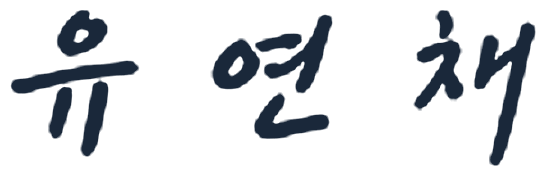
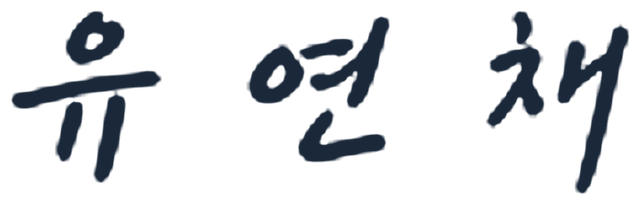
대표이사 서명: 표시 크기 5% 축소(sign-img height 3.3em→3.14em) + 획 두께 5% 얇게(6배 확대 후 침식 재생성), ceo-sign.png?v=3·style.css ?v=20260731-14·translations.js ?v=20260731-12

diff --git a/company.html b/company.html
@@ -7,7 +7,7 @@
   <meta name="description" content="한국탄산화학㈜ 회사소개 — CEO 인사말, 연혁, 꾸준한 성장.">
   <link rel="stylesheet" href="assets/css/reset.css">
   <link rel="stylesheet" href="assets/css/variables.css">
-  <link rel="stylesheet" href="assets/css/style.css?v=20260731-13">
+  <link rel="stylesheet" href="assets/css/style.css?v=20260731-14">
   <!-- 대표이사 서명용 손글씨 폰트 (한글: Nanum Pen Script, 일어: Yomogi) -->
   <link rel="preconnect" href="https://fonts.googleapis.com">
   <link rel="preconnect" href="https://fonts.gstatic.com" crossorigin>
@@ -135,7 +135,7 @@
           <p class="greeting__p" data-i18n-html="company.greeting.p2">고순도 제조 역량과 안정적인 공급망, 신속한 전문 서비스를 바탕으로<br>식음료·제약·산업 전반의 신뢰받는 파트너가 되겠습니다.</p>
           <p class="greeting__p" data-i18n-html="company.greeting.p3">앞으로도 안전(Safety), 품질(Quality), 신뢰(Trust)를 핵심 가치로 삼아<br>지속적인 기술혁신과 품질 향상을 실현하고, 고객의 성장과 산업 발전에<br>기여하는 기업이 되겠습니다.</p>
           <p class="greeting__p" data-i18n-html="company.greeting.p4">변함없는 관심과 성원에 깊이 감사드리며,<br>앞으로도 고객과 함께 더 큰 미래를 만들어 나가겠습니다.</p>
-          <p class="greeting__sign" data-i18n-html="company.greeting.sign">한국탄산화학㈜ 대표이사 <img class="sign-img" src="assets/images/site/ceo-sign.png?v=2" alt="유연채"></p>
+          <p class="greeting__sign" data-i18n-html="company.greeting.sign">한국탄산화학㈜ 대표이사 <img class="sign-img" src="assets/images/site/ceo-sign.png?v=3" alt="유연채"></p>
         </div>
        </div>
       </div>
@@ -256,7 +256,7 @@
     <span class="scroll-fab__text">SCROLL</span>
   </a>
 
-  <script src="assets/i18n/translations.js?v=20260731-11"></script>
+  <script src="assets/i18n/translations.js?v=20260731-12"></script>
   <script src="assets/js/i18n.js"></script>
   <script src="assets/js/main.js"></script>
 </body>

diff --git a/assets/i18n/translations.js b/assets/i18n/translations.js
@@ -218,7 +218,7 @@ window.I18N = {
     "company.greeting.p2": "고순도 제조 역량과 안정적인 공급망, 신속한 전문 서비스를 바탕으로<br>식음료·제약·산업 전반의 신뢰받는 파트너가 되겠습니다.",
     "company.greeting.p3": "앞으로도 안전(Safety), 품질(Quality), 신뢰(Trust)를 핵심 가치로 삼아<br>지속적인 기술혁신과 품질 향상을 실현하고, 고객의 성장과 산업 발전에<br>기여하는 기업이 되겠습니다.",
     "company.greeting.p4": "변함없는 관심과 성원에 깊이 감사드리며,<br>앞으로도 고객과 함께 더 큰 미래를 만들어 나가겠습니다.",
-    "company.greeting.sign": "한국탄산화학㈜ 대표이사 <img class=\"sign-img\" src=\"assets/images/site/ceo-sign.png?v=2\" alt=\"유연채\">",
+    "company.greeting.sign": "한국탄산화학㈜ 대표이사 <img class=\"sign-img\" src=\"assets/images/site/ceo-sign.png?v=3\" alt=\"유연채\">",
     "company.greeting.quote": "최고의 품질과 안전으로 고객의 가치를 높이는 한국탄산화학㈜가 되겠습니다.",
     "company.val.safety": "안전경영",
     "company.val.quality": "품질경영",

diff --git a/company-overview.html b/company-overview.html
@@ -7,7 +7,7 @@
   <meta name="description" content="한국탄산화학㈜ 회사 개요와 조직도 — 상호·설립·사업분야·생산제품 및 조직 구성.">
   <link rel="stylesheet" href="assets/css/reset.css">
   <link rel="stylesheet" href="assets/css/variables.css">
-  <link rel="stylesheet" href="assets/css/style.css?v=20260731-13">
+  <link rel="stylesheet" href="assets/css/style.css?v=20260731-14">
   <!-- 대표이사 서명용 손글씨 폰트 (한글: Nanum Pen Script, 일어: Yomogi) -->
   <link rel="preconnect" href="https://fonts.googleapis.com">
   <link rel="preconnect" href="https://fonts.gstatic.com" crossorigin>
@@ -230,7 +230,7 @@
     <span class="scroll-fab__text">SCROLL</span>
   </a>
 
-  <script src="assets/i18n/translations.js?v=20260731-11"></script>
+  <script src="assets/i18n/translations.js?v=20260731-12"></script>
   <script src="assets/js/i18n.js"></script>
   <script src="assets/js/main.js"></script>
 </body>

diff --git a/company-network.html b/company-network.html
@@ -7,7 +7,7 @@
   <meta name="description" content="한국탄산화학㈜ 계열사와 오시는 길 — 관계사 네트워크 및 사업장 위치·연락처.">
   <link rel="stylesheet" href="assets/css/reset.css">
   <link rel="stylesheet" href="assets/css/variables.css">
-  <link rel="stylesheet" href="assets/css/style.css?v=20260731-13">
+  <link rel="stylesheet" href="assets/css/style.css?v=20260731-14">
   <!-- 대표이사 서명용 손글씨 폰트 (한글: Nanum Pen Script, 일어: Yomogi) -->
   <link rel="preconnect" href="https://fonts.googleapis.com">
   <link rel="preconnect" href="https://fonts.gstatic.com" crossorigin>
@@ -261,7 +261,7 @@
     <span class="scroll-fab__text">SCROLL</span>
   </a>
 
-  <script src="assets/i18n/translations.js?v=20260731-11"></script>
+  <script src="assets/i18n/translations.js?v=20260731-12"></script>
   <script src="assets/js/i18n.js"></script>
   <script src="assets/js/main.js"></script>
 

diff --git a/assets/css/style.css b/assets/css/style.css
@@ -597,7 +597,7 @@ section[id] { scroll-margin-top: 88px; }
 /* 대표이사 이름: 손글씨 필체 + 앞 간격 */
 .greeting__sign .sign-name { margin-left: 1.1em; font-family: 'Nanum Pen Script', 'Yomogi', cursive; font-weight: 400; font-size: 2.04em; letter-spacing: .3em; line-height: 1; color: var(--slate-900); }
 /* 대표이사 자필 서명 이미지(실제 필체) */
-.greeting__sign .sign-img { display: inline-block; height: 3.3em; width: auto; margin-left: 1em; vertical-align: middle; }
+.greeting__sign .sign-img { display: inline-block; height: 3.14em; width: auto; margin-left: 1em; vertical-align: middle; }
 /* 영문: 회사명 줄 아래에 이름을 회사명 중앙 기준으로 배치 */
 html[lang="en"] .greeting__sign { display: inline-block; }
 html[lang="en"] .greeting__sign .sign-name { display: block; margin-left: 0; margin-top: .25em; text-align: center; }

diff --git a/index.html b/index.html
@@ -7,7 +7,7 @@
   <meta name="description" content="한국탄산화학㈜(KLCC)는 산소·질소·아르곤·탄산·수소 등 산업용·의료용 가스와 드라이아이스를 제조·공급하는 전문기업입니다.">
   <link rel="stylesheet" href="assets/css/reset.css">
   <link rel="stylesheet" href="assets/css/variables.css">
-  <link rel="stylesheet" href="assets/css/style.css?v=20260731-13">
+  <link rel="stylesheet" href="assets/css/style.css?v=20260731-14">
 </head>
 <body>
 
@@ -233,7 +233,7 @@
     <span class="scroll-fab__text">SCROLL</span>
   </a>
 
-  <script src="assets/i18n/translations.js?v=20260731-11"></script>
+  <script src="assets/i18n/translations.js?v=20260731-12"></script>
   <script src="assets/js/i18n.js"></script>
   <script src="assets/js/main.js"></script>
 </body>

diff --git a/products-gas.html b/products-gas.html
@@ -7,7 +7,7 @@
   <meta name="description" content="산업용·의료용·혼합·특수·액화석유가스 — 고순도 산소·질소·아르곤·수소·헬륨·탄산·LPG를 Bulk·실린더로 공급·제조합니다.">
   <link rel="stylesheet" href="assets/css/reset.css">
   <link rel="stylesheet" href="assets/css/variables.css">
-  <link rel="stylesheet" href="assets/css/style.css?v=20260731-13">
+  <link rel="stylesheet" href="assets/css/style.css?v=20260731-14">
 </head>
 <body>
 
@@ -351,7 +351,7 @@
     <span class="scroll-fab__text">SCROLL</span>
   </a>
 
-  <script src="assets/i18n/translations.js?v=20260731-11"></script>
+  <script src="assets/i18n/translations.js?v=20260731-12"></script>
   <script src="assets/js/i18n.js"></script>
   <script src="assets/js/main.js"></script>
 </body>

diff --git a/products-supply.html b/products-supply.html
@@ -7,7 +7,7 @@
   <meta name="description" content="고압가스 용기의 안전을 위한 자체 고압용기 검사장 운영 — 정기 재검사와 고압가스 안전관리 기준 준수.">
   <link rel="stylesheet" href="assets/css/reset.css">
   <link rel="stylesheet" href="assets/css/variables.css">
-  <link rel="stylesheet" href="assets/css/style.css?v=20260731-13">
+  <link rel="stylesheet" href="assets/css/style.css?v=20260731-14">
 </head>
 <body>
 
@@ -176,7 +176,7 @@
     <span class="scroll-fab__text">SCROLL</span>
   </a>
 
-  <script src="assets/i18n/translations.js?v=20260731-11"></script>
+  <script src="assets/i18n/translations.js?v=20260731-12"></script>
   <script src="assets/js/i18n.js"></script>
   <script src="assets/js/main.js"></script>
 </body>

diff --git a/products-ice.html b/products-ice.html
@@ -7,7 +7,7 @@
   <meta name="description" content="드라이아이스 너겟·블록 생산설비 日産 150톤. 신선식품 택배 보냉용 필수재와 시장 전망을 소개합니다.">
   <link rel="stylesheet" href="assets/css/reset.css">
   <link rel="stylesheet" href="assets/css/variables.css">
-  <link rel="stylesheet" href="assets/css/style.css?v=20260731-13">
+  <link rel="stylesheet" href="assets/css/style.css?v=20260731-14">
 </head>
 <body>
 
@@ -297,7 +297,7 @@
     <span class="scroll-fab__text">SCROLL</span>
   </a>
 
-  <script src="assets/i18n/translations.js?v=20260731-11"></script>
+  <script src="assets/i18n/translations.js?v=20260731-12"></script>
   <script src="assets/js/i18n.js"></script>
   <script src="assets/js/main.js"></script>
 </body>

diff --git a/products-construction.html b/products-construction.html
@@ -7,7 +7,7 @@
   <meta name="description" content="가스 저장탱크 설치부터 배관·공급설비 시공, 안전관리·검사까지 일괄 수행합니다.">
   <link rel="stylesheet" href="assets/css/reset.css">
   <link rel="stylesheet" href="assets/css/variables.css">
-  <link rel="stylesheet" href="assets/css/style.css?v=20260731-13">
+  <link rel="stylesheet" href="assets/css/style.css?v=20260731-14">
 </head>
 <body>
 
@@ -180,7 +180,7 @@
     <span class="scroll-fab__text">SCROLL</span>
   </a>
 
-  <script src="assets/i18n/translations.js?v=20260731-11"></script>
+  <script src="assets/i18n/translations.js?v=20260731-12"></script>
   <script src="assets/js/i18n.js"></script>
   <script src="assets/js/main.js"></script>
 </body>

diff --git a/quality.html b/quality.html
@@ -7,7 +7,7 @@
   <meta name="description" content="고순도 제조 역량, 식품첨가물 탄산가스 품질, 용기검사장, Gas Service Team.">
   <link rel="stylesheet" href="assets/css/reset.css">
   <link rel="stylesheet" href="assets/css/variables.css">
-  <link rel="stylesheet" href="assets/css/style.css?v=20260731-13">
+  <link rel="stylesheet" href="assets/css/style.css?v=20260731-14">
 </head>
 <body>
 
@@ -216,7 +216,7 @@
     <span class="scroll-fab__text">SCROLL</span>
   </a>
 
-  <script src="assets/i18n/translations.js?v=20260731-11"></script>
+  <script src="assets/i18n/translations.js?v=20260731-12"></script>
   <script src="assets/js/i18n.js"></script>
   <script src="assets/js/main.js"></script>
 </body>

diff --git a/support.html b/support.html
@@ -7,7 +7,7 @@
   <meta name="description" content="한국탄산화학 고객지원 — 사업장 연락처, 자주 묻는 질문.">
   <link rel="stylesheet" href="assets/css/reset.css">
   <link rel="stylesheet" href="assets/css/variables.css">
-  <link rel="stylesheet" href="assets/css/style.css?v=20260731-13">
+  <link rel="stylesheet" href="assets/css/style.css?v=20260731-14">
 </head>
 <body>
 
@@ -191,7 +191,7 @@
     <span class="scroll-fab__text">SCROLL</span>
   </a>
 
-  <script src="assets/i18n/translations.js?v=20260731-11"></script>
+  <script src="assets/i18n/translations.js?v=20260731-12"></script>
   <script src="assets/js/i18n.js"></script>
   <script src="assets/js/main.js"></script>
 </body>
